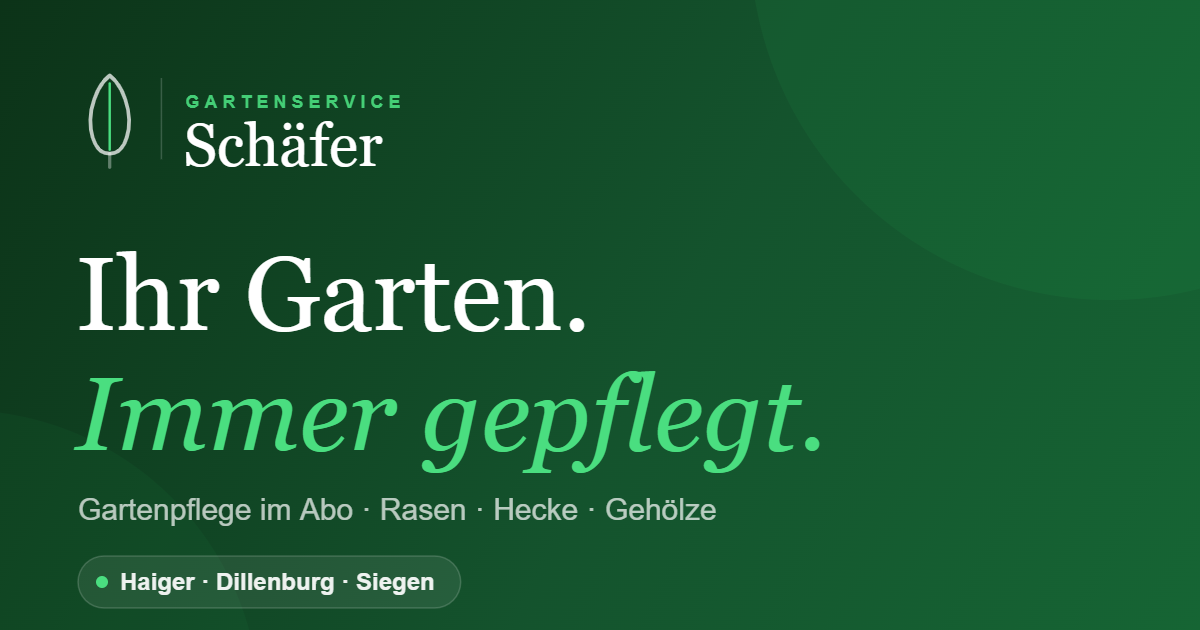
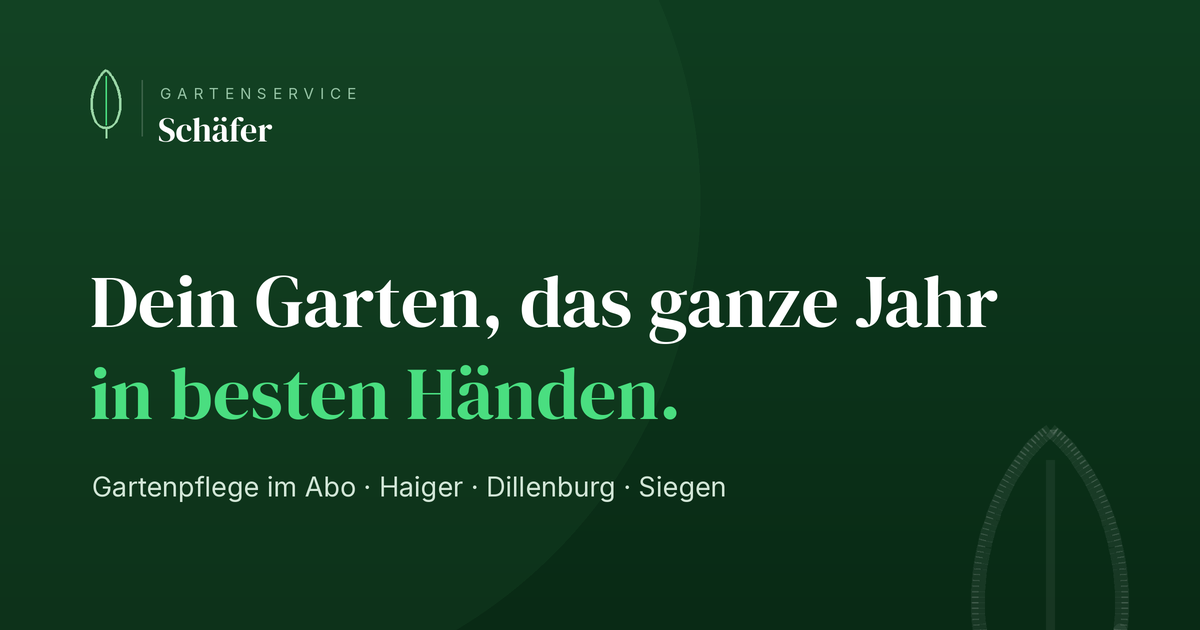
Add files via upload

diff --git a/index.html b/index.html
@@ -12,14 +12,15 @@
 <meta property="og:site_name" content="Gartenservice Schäfer">
 <meta property="og:title" content="Gartenservice Schäfer · Gartenpflege im Abo">
 <meta property="og:description" content="Rasenmähen, Heckenschnitt &amp; Gartenpflege im Pflege-Abo oder als Einzelauftrag. Feste Termine, klarer Monatspreis – im Raum Haiger, Dillenburg und Siegen.">
-<meta property="og:image" content="social-card.png">
+<meta property="og:image" content="https://gartenservice-schaefer.de/social-card.png">
+<meta property="og:image:alt" content="Gartenservice Schäfer – Dein Garten, das ganze Jahr in besten Händen.">
 <meta property="og:image:width" content="1200">
 <meta property="og:image:height" content="630">
 <meta property="og:url" content="https://gartenservice-schaefer.de/">
 <meta name="twitter:card" content="summary_large_image">
 <meta name="twitter:title" content="Gartenservice Schäfer · Gartenpflege im Abo">
 <meta name="twitter:description" content="Rasenmähen, Heckenschnitt &amp; Gartenpflege im Pflege-Abo – im Raum Haiger, Dillenburg und Siegen.">
-<meta name="twitter:image" content="social-card.png">
+<meta name="twitter:image" content="https://gartenservice-schaefer.de/social-card.png">
 </head>
 <body>
 